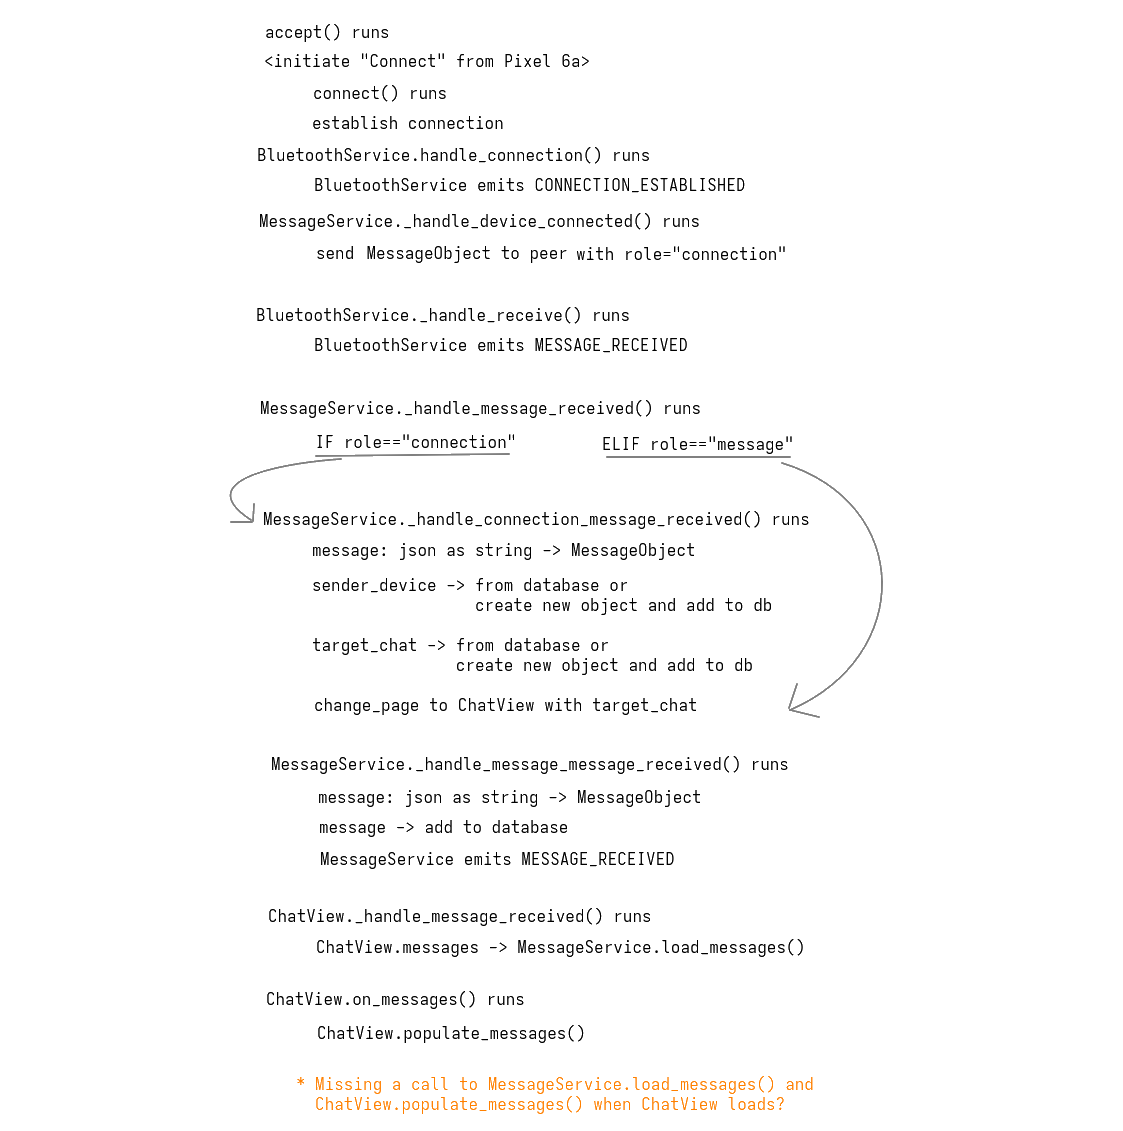
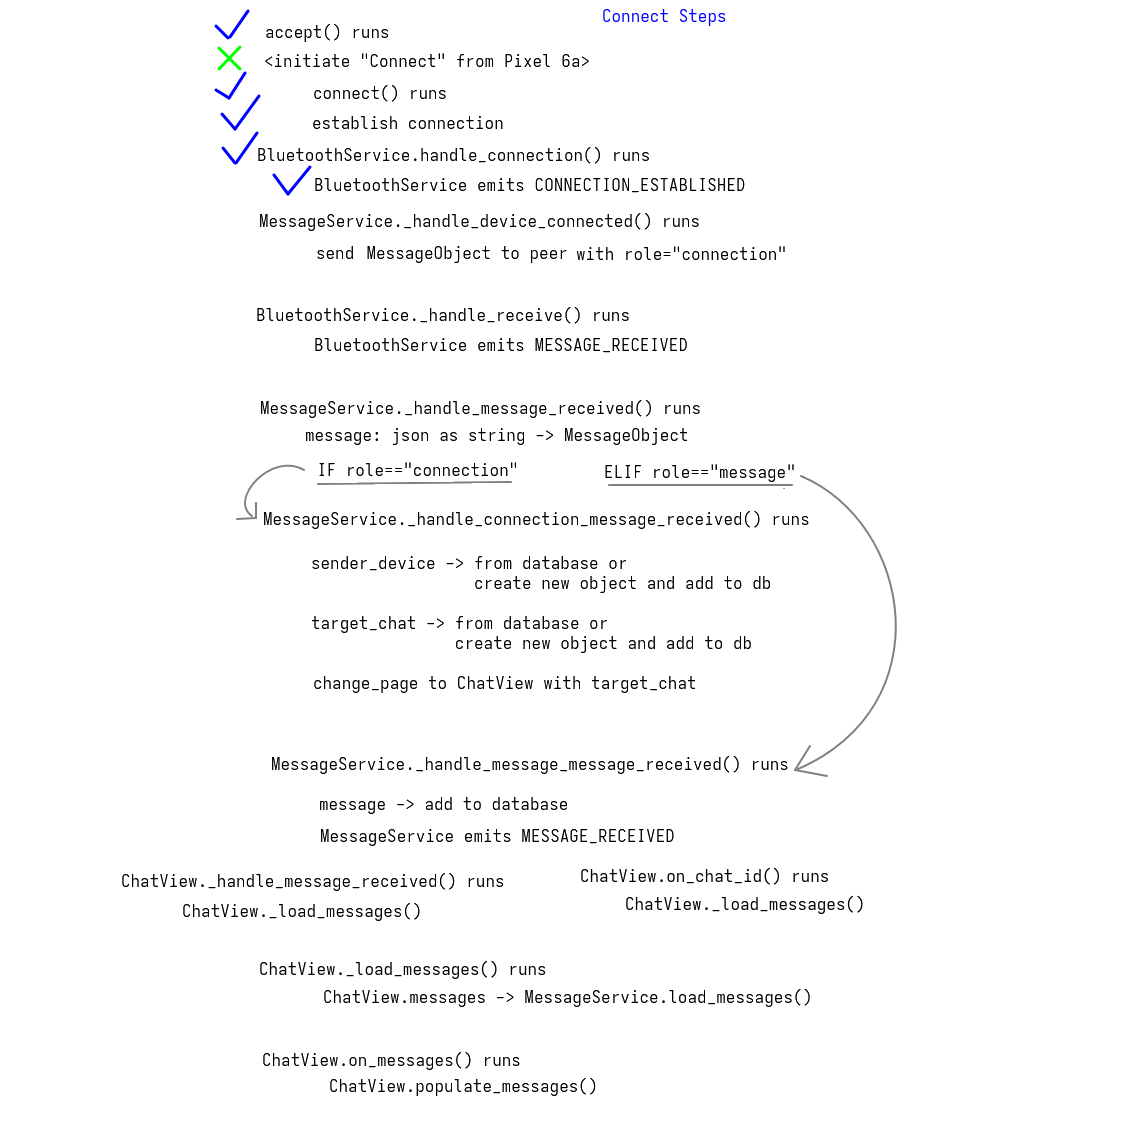
Chat flow is now functional.

diff --git a/services/message.py b/services/message.py
@@ -7,6 +7,7 @@
 
 import json
 import logging
+from typing import LiteralString
 from dataclasses import dataclass
 from db.manager import chats, devices, messages, settings
 from utils import EventRegistry, schedule
@@ -24,10 +25,11 @@ class Message:
 class MessageObject:
     message: Message | None
     sender_uuid: str
+    role: LiteralString['message', 'connection']
 
     def to_dict(self):
         message = self.message.to_dict() if self.message else None
-        return {'message': message, 'sender_uuid': self.sender_uuid}
+        return {'message': message, 'sender_uuid': self.sender_uuid, 'role': self.role}
 
     def to_json(self):
         return json.dumps(self.to_dict())
@@ -41,9 +43,14 @@ class MessageObject:
                 text=message_dict['message']['text'],
                 chat_id=message_dict['message']['chat_id']
             )
-        message_obj = MessageObject(message=message, sender_uuid=message_dict['sender_uuid'])
+        message_obj = MessageObject(
+            message=message,
+            sender_uuid=message_dict['sender_uuid'],
+            role=message_dict['role'],
+        )
         return message_obj
 
+INDENT = '                           '
 
 class MessageService:
 
@@ -57,10 +64,6 @@ class MessageService:
 
         self.bluetooth_service = bluetooth_service
         self.bluetooth_service.event_registry.register_event_callback('CONNECTION_ESTABLISHED', self._handle_device_connected)
-
-        # Whenever the BluetoothService emits the MESSAGE_RECEIVED event,
-        # the MessageService runs its own _handle_message_received function,
-        # which also emits a MESSAGE_RECEIVED event from MessageService
         self.bluetooth_service.event_registry.register_event_callback('MESSAGE_RECEIVED', self._handle_message_received)
 
     # Message API
@@ -69,18 +72,19 @@ class MessageService:
             If there is an exception during transport,
             the message will not be added to the database.
         """
-        my_device_uuid = settings.get_device_uuid()
+        my_device = devices.get_mine()
         try:
             # Transport part
             message_obj = MessageObject(
                 message=Message(text=text, chat_id=chat_id),
-                sender_uuid=my_device_uuid
+                sender_uuid=my_device.uuid,
+                role='message',
             )
             message_json = message_obj.to_json()
             self.bluetooth_service.send_bytes(message_json)
 
             # Database part
-            messages.create(chat_id, my_device_uuid, text)
+            messages.create(chat_id, my_device.uuid, text)
         except Exception as e:
             print('MessageService Error:', e)
 
@@ -109,19 +113,30 @@ class MessageService:
     def _handle_device_connected(self):
         logging.info('[MessageService] Running _handle_device_connected()')
 
-        # Self Introduction Over Bluetooth
+        # Send Connection Message
         my_device_uuid = settings.get_device_uuid()
-        self_intro = MessageObject(message=None, sender_uuid=my_device_uuid)
-        self_intro_json = self_intro.to_json()
-        logging.info(f'MessageService: Sending self introduction message to remote device: {self_intro_json}')
-        self.bluetooth_service.send_bytes(self_intro_json)
+        connection_message = MessageObject(message=None, sender_uuid=my_device_uuid, role='connection')
+        connection_message_json = connection_message.to_json()
+        logging.info(f'MessageService: Sending connection message to remote device: {connection_message_json}')
+        self.bluetooth_service.send_bytes(connection_message_json)
 
     def _handle_message_received(self, data):
         logging.info('[MessageService] Running _handle_message_received()')
 
         message_obj = MessageObject.from_json(data)
         logging.info(('MessageService: Converted message from JSON string to Python Object.\n'
-                      f'                           {message_obj.__repr__()}'))
+                      f'{INDENT}{message_obj.__repr__()}'))
+
+        if message_obj.role == 'message':
+            logging.info('MessageService: Regular communication message received.')
+            self._handle_message_message_received(message_obj)
+
+        elif message_obj.role == 'connection':
+            logging.info('MessageService: Connection initiation message received.')
+            self._handle_connection_message_received(message_obj)
+
+    def _handle_connection_message_received(self, message_obj):
+        logging.info('MessageService: Running _handle_connection_message_received()')
 
         # Database - Add Device if unknown
         sender_device = devices.get(message_obj.sender_uuid)
@@ -137,41 +152,60 @@ class MessageService:
                 address=remote_device_obj.address,
             )
             logging.info(('MessageService: Created new Device record.\n'
-                          f'                           {sender_device.__repr__()}'))
+                          f'{INDENT}{sender_device.__repr__()}'))
         else:
-            logging.info(('MessageService: Message is from a known Device.\n'
-                          f'                           {sender_device.__repr__()}'))
+            logging.info(('MessageService: Connection message was from a known Device.\n'
+                          f'{INDENT}{sender_device.__repr__()}'))
 
         # Database - Create chat with device if not exists
-
-        # So yes, I ONLY want to pop into the Chat View when the connected_socket becomes connected.
-
+        # See if the results from a query of the chats with this device_uuid is not empty
         existing_chats = chats.list_chats(device_uuid=message_obj.sender_uuid)
-        if not existing_chats:
-            target_chat = chats.create([message_obj.sender_uuid])
-            logging.info(('MessageService: New Chat created.\n'
-                          f'                           {target_chat.__repr__()}'))
-        else:
+        if existing_chats:
+            logging.info('MessageService: Retrieved previous Chat with peer Device.')
             target_chat = existing_chats[0]
-        if len(existing_chats) > 1:
-            print('Warning: more than 1 chat with Device', sender_device.name,
-                  'exists and multiple Chat channels with the same Device are not yet supported.')
+            if len(existing_chats) > 1:
+                logging.warning((f'MessageService: more than 1 chat with Device {sender_device.name} '
+                      'exists and multiple Chat channels with the same Device are not yet supported.'))
+        else:
+            target_chat = chats.create([message_obj.sender_uuid])
+            logging.info('MessageService: New Chat created.')
+        logging.info(f'[MessageService] Target Chat set to {target_chat.__repr__()}')
 
-        # Frontend - Jump into Chat View with Chat object
-        # (will currently happen on EVERY single message but I will optimize it later)
+        # Frontend - Jump into Chat View with the Target Chat
         def go(_):
             change_page('Chat', chat_id=target_chat.id, chat_title=target_chat.title)
         schedule(go)
 
-        # Database - Add message content
-        if message_obj.message:
-            messages.create(
-                chat_id=message_obj.message.chat_id,
-                device_uuid=sender_device.uuid,
-                text=message_obj.message.text,
-            )
+    def _handle_message_message_received(self, message_obj):
+        logging.info('MessageService: Running _handle_message_message_received()')
+
+        # Database - Retrieve Sender Device
+        sender_device = devices.get(message_obj.sender_uuid)
+        if not sender_device:
+            logging.error(('MessageService: Received a Message from an unknown Device. This should probably not be '
+                           'possible if the devices connected to each other before trying to send a normal message.'))
+            return
+        logging.info(('MessageService: Successfully retrieved sender Device record.\n'
+                     f'{INDENT}{sender_device.__repr__()}'))
+
+        # Database - Retrieve Target Chat
+        target_chat = chats.get(message_obj.message.chat_id)
+        if not target_chat:
+            logging.error('MessageService: Received a Message to a non-existing Chat.')
+            return
+        logging.info(('MessageService: Successfully retrieved the target Chat record.\n'
+                      f'{INDENT}{target_chat.__repr__()}'))
+
+        # Database - Insert message content
+        new_message = messages.create(
+            chat_id=message_obj.message.chat_id,
+            device_uuid=sender_device.uuid,
+            text=message_obj.message.text,
+        )
+        logging.info(('MessageService: Created new Message record.\n'
+                      f'{INDENT}{new_message.__repr__()}'))
 
         # Frontend - emit message received event
-        if message_obj.message:
-            self.event_registry.emit_event('MESSAGE_RECEIVED', message_obj.message.text)
+        logging.info('[MessageService] emits MESSAGE_RECEIVED')
+        self.event_registry.emit_event('MESSAGE_RECEIVED')
 

diff --git a/messenger/widgets/frontend/chat_view.py b/messenger/widgets/frontend/chat_view.py
@@ -1,3 +1,4 @@
+import logging
 from kivy.metrics import dp
 from kivy.properties import ListProperty, NumericProperty, StringProperty
 from kivymd.uix.boxlayout import MDBoxLayout
@@ -82,10 +83,11 @@ class ChatView(AppScreen):
             text = self.text_input.text
             message_service = get_message_service()
             message_service.send_message(text, self.chat_id)
-            message_from_self = {'text': text, 'sender': 'You', 'time': 'Just now'}
+            self._load_messages()
         self.send_button.bind(on_press=s)
 
     def populate_messages(self, messages):
+        logging.info('ChatView: Running populate_messages()')
         def c(_):
             self.message_container.clear_widgets()
         def d(_):
@@ -100,16 +102,23 @@ class ChatView(AppScreen):
         self.chat_title = context.get('chat_title')
 
     def on_chat_id(self, _, chat_id):
-        message_service = get_message_service()
-        self.messages = message_service.load_messages(chat_id)
+        logging.info('ChatView: Running on_chat_id')
+        self._load_messages()
 
     def on_chat_title(self, _, chat_title):
         self.headline.text = chat_title
 
     def on_messages(self, _, messages):
+        logging.info('ChatView: Running on_messages()')
         self.populate_messages(messages)
 
-    def _handle_message_received(self, data):
+    def _handle_message_received(self):
+        logging.info('ChatView: Running _handle_message_received()')
+        self._load_messages()
+
+    def _load_messages(self):
+        logging.info('ChatView: Running _load_messages()')
         message_service = get_message_service()
         messages = message_service.load_messages(self.chat_id)
+        logging.info(f'ChatView: Got {len(messages)} messages from MessageService.')
         self.messages = messages

diff --git a/models/models.py b/models/models.py
@@ -34,7 +34,7 @@ class Device(Base):
     messages = relationship('Message', back_populates='device')
 
     def __repr__(self):
-        return f'Device[Model](uuid=\'{self.uuid}\', name=\'{self.name}\', address=\'{self.address}\', owner={self.owner})'
+        return f'Model Device(uuid=\'{self.uuid}\', name=\'{self.name}\', address=\'{self.address}\', owner={self.owner})'
 
 class Chat(Base):
     """ A Chat is a room to contain Messages involving the user and one or more other devices. Multiple
@@ -60,7 +60,7 @@ class Chat(Base):
         self.members = [Member(device=d) for d in devices]
 
     def __repr__(self):
-        return f'Chat[Model](id={self.id}, title=\'{self.title}\', datetime=\'{self.datetime}\')'
+        return f'Model Chat>(id={self.id}, title=\'{self.title}\', datetime=\'{self.datetime}\')'
 
 class Member(Base):
     """ A Device which is a Member of a Chat. """
@@ -90,6 +90,10 @@ class Message(Base):
 
     device = relationship('Device', back_populates='messages')
     chat = relationship('Chat', back_populates='messages')
+
+    def __repr__(self):
+        return (f'Model Message(id={self.id}, text=\'{self.text}\', device_uuid=\'{self.device_uuid}\', '
+                'chat_id={self.chat_id}, datetime=\'{self.datetime}\'')
 
 class Setting(Base):
     """" Application-level settings as key-value pairs. """

diff --git a/messenger/utils.py b/messenger/utils.py
@@ -1,6 +1,11 @@
+import logging
 from kivy.app import App
 
 def change_page(page_name, **context):
+    logstr = f'change_page: Navigate to {page_name}'
+    if context:
+        logstr += f' with context {str(context)}'
+    logging.info(logstr)
     app = App.get_running_app()
     app.set_page(page_name)
     screen = app.get_screen(page_name)